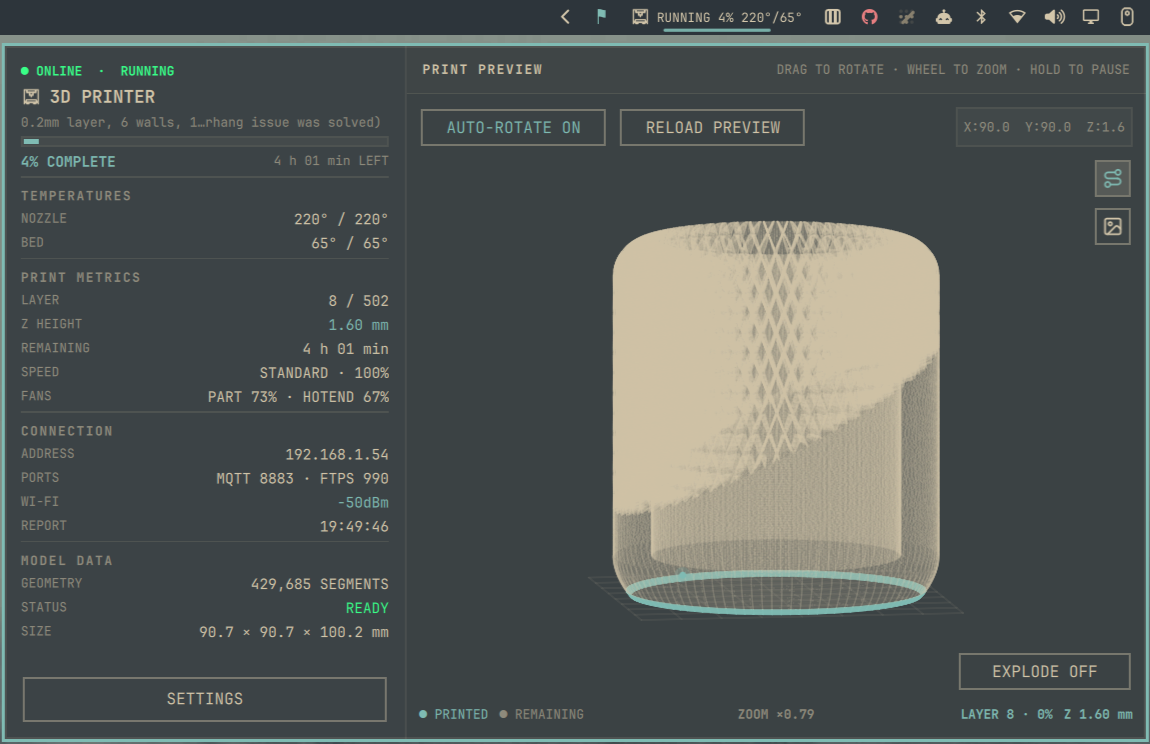
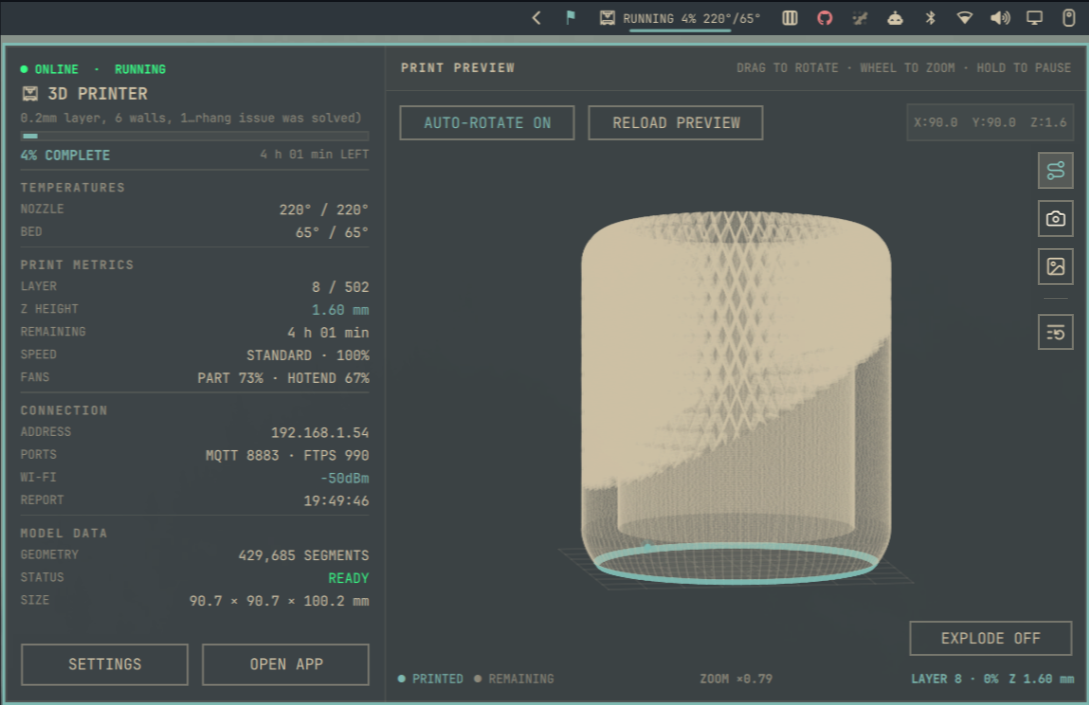
fix: render camera error detail as plain text

diff --git a/BambuModelViewport.qml b/BambuModelViewport.qml
@@ -892,6 +892,7 @@ Item {
         width: parent.width
         text: viewport.emptyModelDetail()
         visible: text !== ""
+        textFormat: Text.PlainText
         color: viewport.dim
         horizontalAlignment: Text.AlignHCenter
         wrapMode: Text.WordWrap

diff --git a/test/repository_contract_test.rb b/test/repository_contract_test.rb
@@ -41,7 +41,7 @@ class RepositoryContractTest < Minitest::Test
     defaults = manifest.fetch("barWidget").fetch("defaults")
 
     assert_equal "io.github.ypmrg.bambu-companion", manifest.fetch("id")
-    assert_equal "1.7.1", manifest.fetch("version")
+    assert_equal "1.7.2", manifest.fetch("version")
     assert_includes manifest.fetch("kinds"), "bar-widget"
     assert_includes manifest.fetch("kinds"), "service"
     assert_includes manifest.fetch("kinds"), "panel"

diff --git a/test/viewport_route_contract_test.rb b/test/viewport_route_contract_test.rb
@@ -201,6 +201,8 @@ class ViewportRouteContractTest < Minitest::Test
                  @source)
     assert_includes @source, "CHAMBER CAMERA"
     assert_includes @source, "WAITING FOR CAMERA"
+    assert_match(/text:\s*viewport\.emptyModelDetail\(\).*textFormat:\s*Text\.PlainText/m,
+                 @source)
   end
 
   def test_simulated_nozzle_is_sampled_by_the_native_renderer
